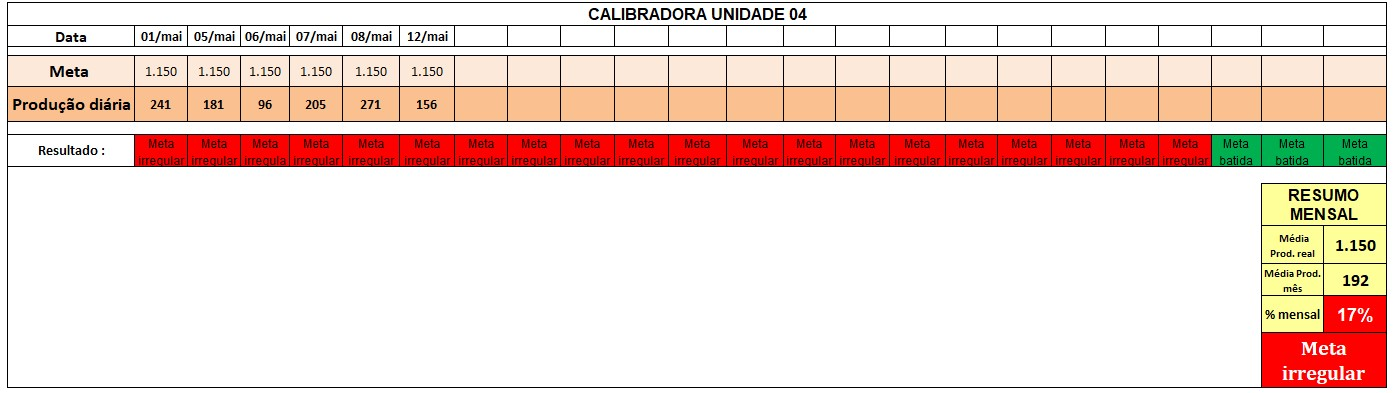
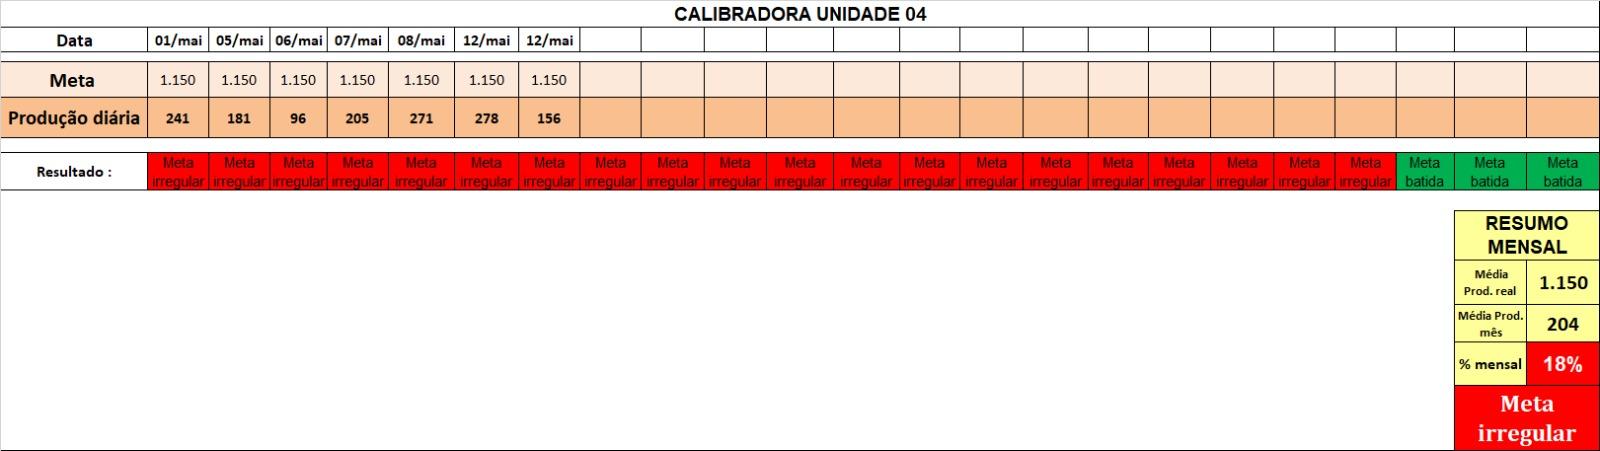
,

Changed region(s): [[0.0, 0.0, 1.0, 1.0]]

diff --git a/back__incial.js b/back__incial.js
@@ -1690,7 +1690,7 @@ const unidades = {
             { data: "06/05/2025", captura: ["capturas/Unidade 4/Usinagem/2025/Calibradora/MAIO/06.jpg"] },
             { data: "07/05/2025", captura: ["capturas/Unidade 4/Usinagem/2025/Calibradora/MAIO/07.jpg"] },
             { data: "08/05/2025", captura: ["capturas/Unidade 4/Usinagem/2025/Calibradora/MAIO/08.jpg"] },
-
+            { data: "12/05/2025", captura: ["capturas/Unidade 4/Usinagem/2025/Calibradora/MAIO/12.jpg"] },
 
             // { data: "", captura: [""] },
             // { data: "", captura: [""] },
@@ -1778,6 +1778,8 @@ const unidades = {
             { data: "07/05/2025", captura: ["capturas/Unidade 4/Usinagem/2025/Prensas/MAIO/07.jpg"] },
             { data: "08/05/2025", captura: ["capturas/Unidade 4/Usinagem/2025/Prensas/MAIO/08.jpg"] },
             { data: "09/05/2025", captura: ["capturas/Unidade 4/Usinagem/2025/Prensas/MAIO/09.jpg"] },
+            { data: "12/05/2025", captura: ["capturas/Unidade 4/Usinagem/2025/Prensas/MAIO/12.jpg"] },
+
 
             // { data: "", captura: [""] },
 
@@ -2371,7 +2373,7 @@ const unidades = {
             { data: "07/05/2025", captura: ["capturas/Unidade 4/Tempo_parado/2025/MAIO/07 MAQ.jpg", "capturas/Unidade 4/Tempo_parado/2025/MAIO/07 ITAL.jpg"] },
             { data: "08/05/2025", captura: ["capturas/Unidade 4/Tempo_parado/2025/MAIO/08 MAQ.jpg", "capturas/Unidade 4/Tempo_parado/2025/MAIO/08 ITAL.jpg"] },
             { data: "09/05/2025", captura: ["capturas/Unidade 4/Tempo_parado/2025/MAIO/09 MAQ.jpg", "capturas/Unidade 4/Tempo_parado/2025/MAIO/09 ITAL.jpg"] },
-
+            { data: "12/05/2025", captura: ["capturas/Unidade 4/Tempo_parado/2025/MAIO/12 MAQ.jpg", "capturas/Unidade 4/Tempo_parado/2025/MAIO/12 ITAL.jpg"] },
 
             // { data: "", captura: ["", ""] },
             // { data: "", captura: ["", ""] },
